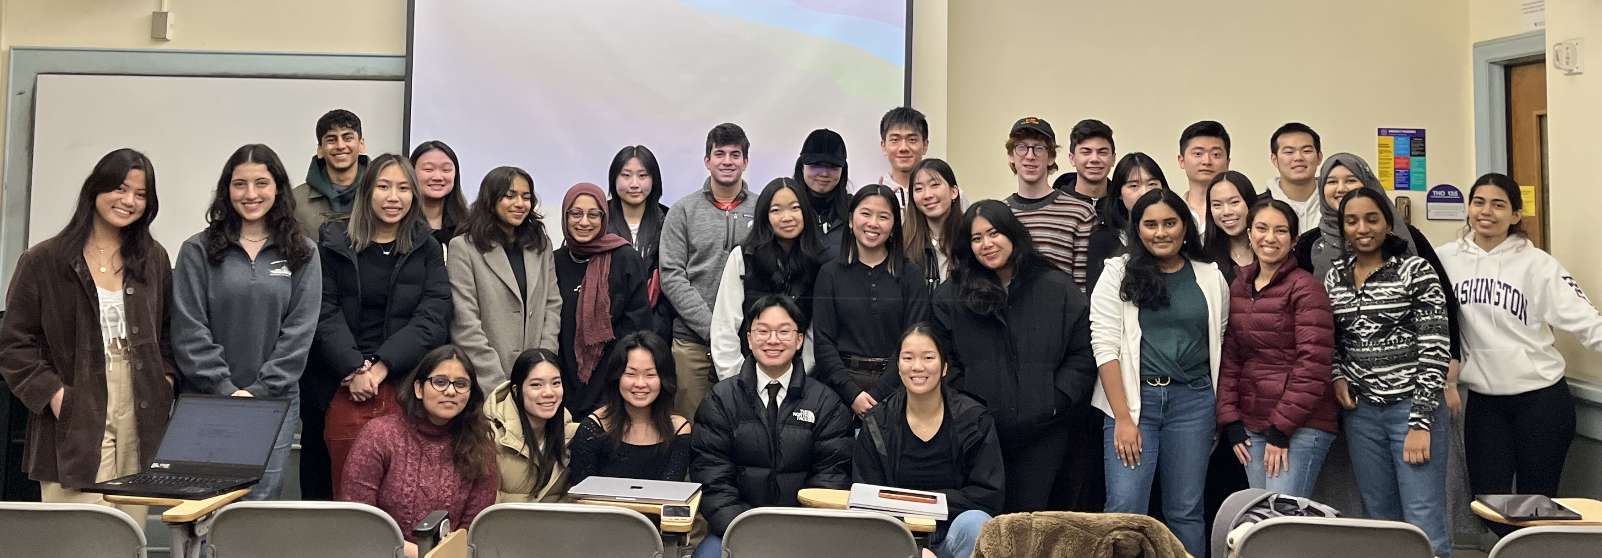
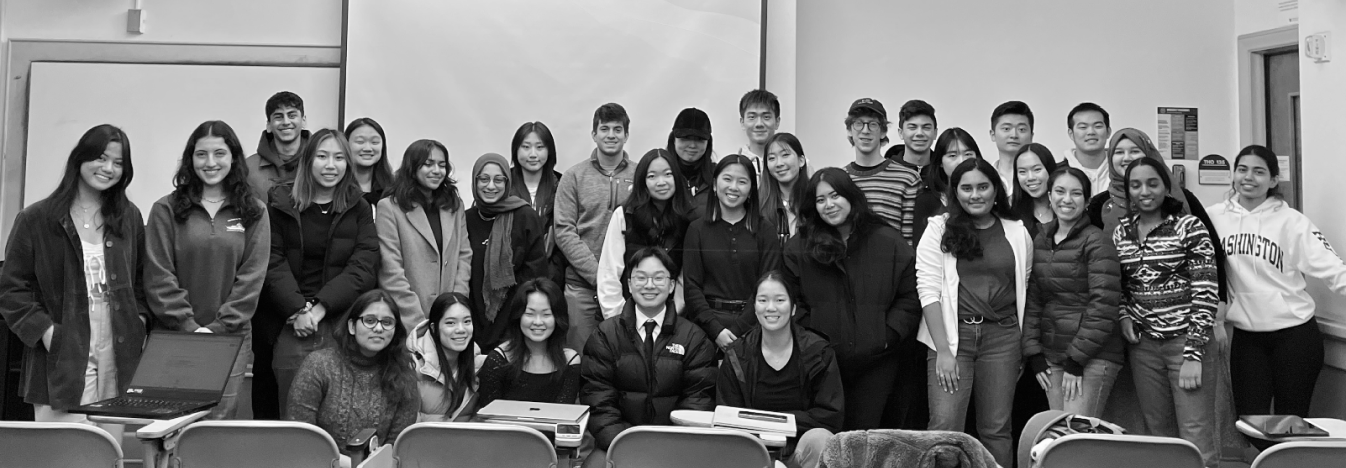
Update team pic to black and white and update left/right spacing issue

diff --git a/tedx-website/src/components/about_tedx/about_tedx.css b/tedx-website/src/components/about_tedx/about_tedx.css
@@ -1,3 +1,13 @@
+.row>* {
+    padding-right: 0 !important;
+    padding-left: 0 !important;
+}
+
+.row {
+    margin-left: 0 !important;
+    margin-right: 0 !important;
+}
+
 .about-tedx-page {
     font-size: calc(0.85rem + 0.8vw)
 }
@@ -7,21 +17,6 @@
     position: relative;
     right: 40px;
     margin-top: 30px;
-}
-
-.about-tedx-tedImgPlaceholder {
-    border: 1px solid #454545;
-    background-color: pink;
-    width: 400px;
-    height: 250px;
-}
-
-.about-tedx-tedXUofWImgPlaceholder {
-    border: 1px solid #454545;
-    background-color: pink;
-    width: 400px;
-    height: 350px;
-    margin-bottom: 75px;
 }
 
 .about-tedx-tedXUofWHeader {
